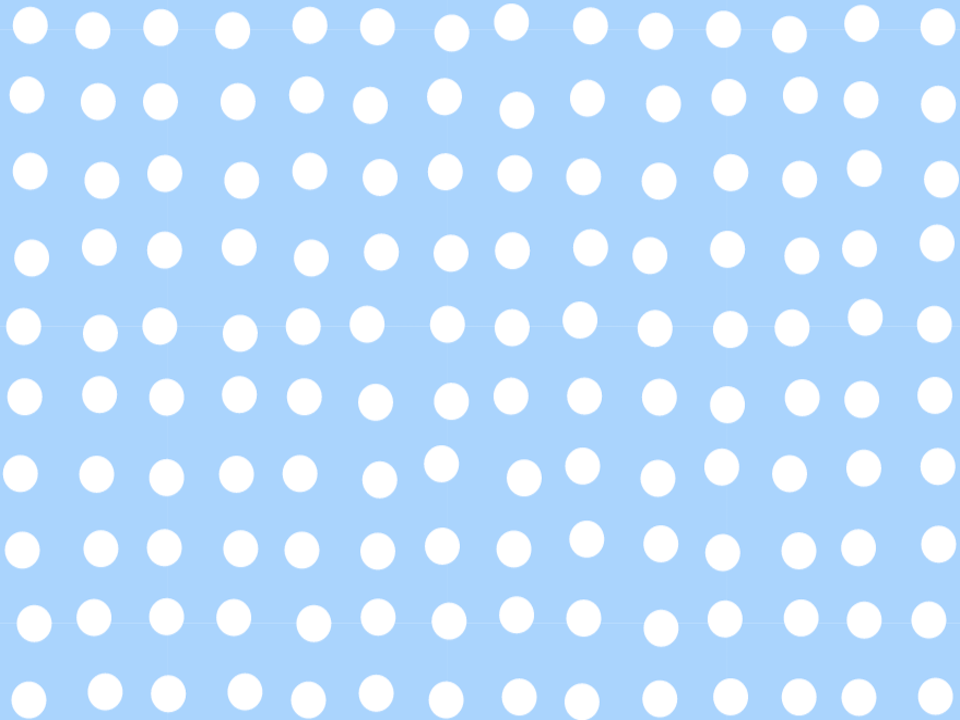
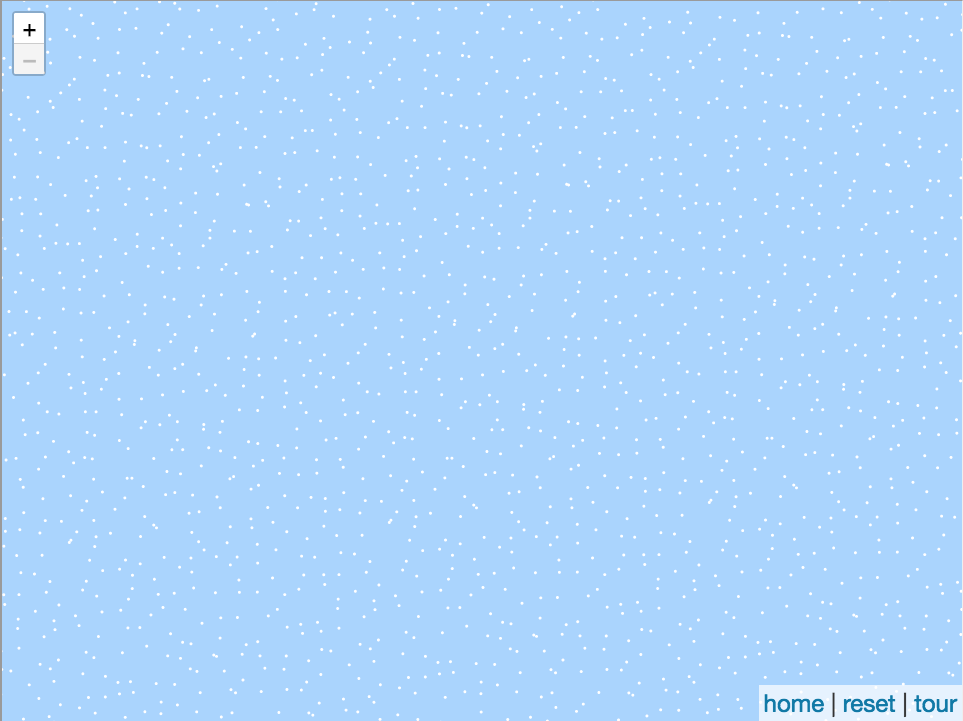
smaller snow circles

diff --git a/example_fence.js b/example_fence.js
@@ -1,8 +1,8 @@
 const max_thickness = 64;
 const max_movement = 16;
-const ball_radius = 32;
+const ball_radius = 3;
 const line_width = 8;
-const grid_size = 64;
+const grid_size = 20;
 
 /* the random number seed for the tour */
 var tourSeed = 301;
@@ -45,8 +45,8 @@ function drawPetals(p5, x1, x2, y1, y2, pos_x, pos_y, rad1, rad2) {
   let pixel_radius = pixel_posx2 - pixel_posx1;
   for(let i=0; i<offsets.length; i++) {
     let offset = offsets[i];
-    let pixel_x = p5.map(pos_x+0.5*rad1*offset[0], x1, x2, 0, 256);
-    let pixel_y = p5.map(pos_y+0.5*rad1*offset[1], y1, y2, 0, 256);
+    let pixel_x = p5.map(pos_x+0.1*rad1*offset[0], x1, x2, 0, 256);
+    let pixel_y = p5.map(pos_y+0.1*rad1*offset[1], y1, y2, 0, 256);
     p5.ellipse(pixel_x, pixel_y, pixel_radius);    
   }
 }
@@ -140,7 +140,7 @@ function drawGrid(p5, x1, x2, y1, y2, z, zoom) {
       if (zoom >= 10) {
         p5.fill(255);
         p5.noStroke();
-        drawPetals(p5, x1, x2, y1, y2, shift_point[0], shift_point[1], ball_radius, 2*line_width);        
+        drawPetals(p5, x1, x2, y1, y2, shift_point[0], shift_point[1], ball_radius, 4*line_width);        
       }
 
       p5.stroke(255);
@@ -152,8 +152,8 @@ function drawGrid(p5, x1, x2, y1, y2, z, zoom) {
         // now if we are super zoomed, draw lines in the stamen
         var drawLines = false;
         if (zoom >= 5) drawLines = true;
-        p5.fill(0, 0, 255);
-        p5.stroke(0, 0, 128);
+        p5.fill(255);
+        p5.stroke(255);
         drawStamens(p5, x1, x2, y1, y2, shift_point[0], shift_point[1], ball_radius/3, line_width/2, drawLines);
       }
     }

diff --git a/README.md b/README.md
@@ -1,5 +1,5 @@
 ## PS4 MDDN 342 2018
 
-I was able to take one of the classs examples and somewhat start what I want to do with ps4. My idea from is to have a snowfall image, and when you zoom in different snowflakes will start to form. I think it will be interesting to start with small circles or dots on the screen and as you zoom in you are able to see different detaisl from each snowflake. I've started with round white circles and have a zoom with a little bit of detail in each of them.
+I managed to change the size of the cirlces and how many in frame which resembles snow a lot more which i'm happy with. I think this looks good for now in terms of the asthetic when you first see the frame. 
 
-Moving forward I need to continue to work on the code and try figure out exactly how to change small details. I will need to add in a lot of randomised details so that each snowflake is a little different. 
+Again, I will continue to work on the code to make different snowflake shapes. I feel confident that I can get it to how I orignally intended it to look, especially with the time frame. 
